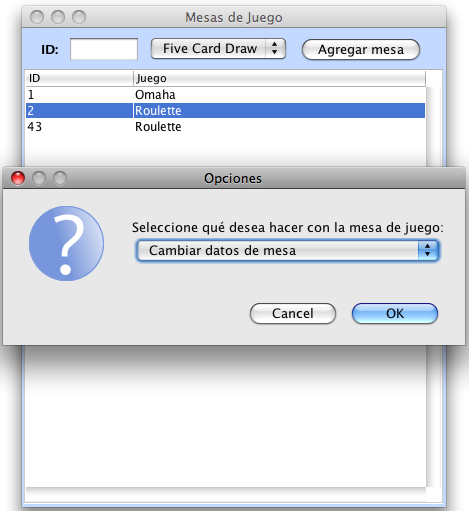
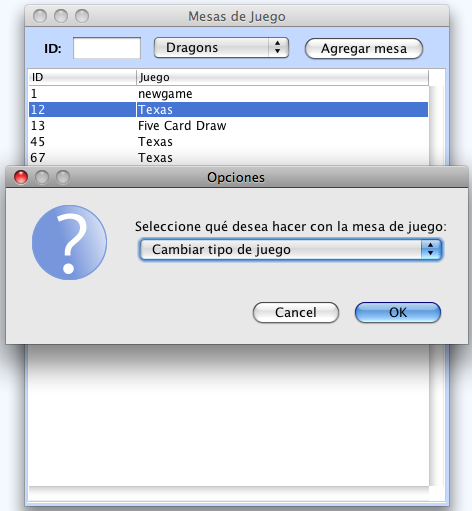
user manual

diff --git a/casinodesktop/src/gamesmanager/ui/help/index.html b/casinodesktop/src/gamesmanager/ui/help/index.html
@@ -111,18 +111,20 @@ Haga los cambios correspondientes y d&eacute; clic sobre el bot&oacute;n de &quo
 <h2>5. Administraci&oacute;n de mesas</h2>
 <h3>5.1 Dar de alta</h3>
 <br><img src="screens/addgametable.png" width="504" height="581" /><br>
-<h3>5.2 Cambiar mesa de juego</h3>
+<h3>5.2 Cambiar mesa de tipo de juego</h3>
 <br><img src="screens/updategametable.png" width="469" height="511" /><br>
 <h3>5.3 Dar de baja</h3>
 <br><img src="screens/deletegametable.png" width="469" height="514" /><br>
 <br>
 <h2>6. Administraci&oacute;n de sesiones de juego</h2>
-<br> 
+<img src="screens/adminsessions.png" alt="searching servers" width="924" height="624" /><br> 
 
 <h2>7. Sincronizaci&oacute;n</h2>
-<br> 
-
-<br>
-(c) Copyright Alfredo Fern&aacute;ndez Acu&ntilde;a (alfredofernandeza@gmail.com)
+<p><img src="screens/searchingservers.png" alt="searching servers" width="326" height="122" /></p>
+<p><img src="screens/syncform.png" alt="searching servers" width="604" height="481" /><br> 
+  
+  <br>
+  (c) Copyright Alfredo Fern&aacute;ndez Acu&ntilde;a (alfredofernandeza@gmail.com)
+</p>
 </body>
 </html>
